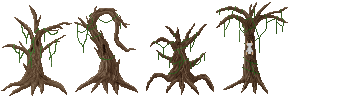
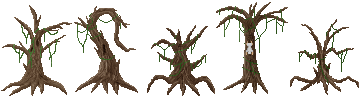
more content, new tree but keep widow tree in lvl 1

diff --git a/game/new/index2.html b/game/new/index2.html
@@ -656,8 +656,8 @@ var loadContent = function(levelName) {
         var numTypes = 4;
         tempContent[i].offset = i%numTypes;
     } else if(tempContent[i].type=="tree1") {
-        var numTypes = 4;
-        tempContent[i].offset = i%numTypes;
+        var numTypes = 5;
+        tempContent[i].offset = (i-1)%numTypes;
     } else if(tempContent[i].type == "rock1") {
         var numTypes = 5;
         tempContent[i].offset = i%numTypes;
@@ -826,7 +826,7 @@ var drawAllText = function() {
 var GameLoop = function(){
   numFramesSinceStart++;
 	clear();
-  
+
 	if(players[0].hp<1) {
 		players[0].hp=0;
     players[1].hp=0;

diff --git a/game/new/levelcreator.html b/game/new/levelcreator.html
@@ -388,8 +388,8 @@ var setUpContent = function() {
         content[i].offset = i%numTypes;
         break;
       case "tree1":
-        var numTypes = 4;
-        content[i].offset = i%numTypes;
+        var numTypes = 5;
+        content[i].offset = (i-1)%numTypes;
         break;
 		}
 	}
